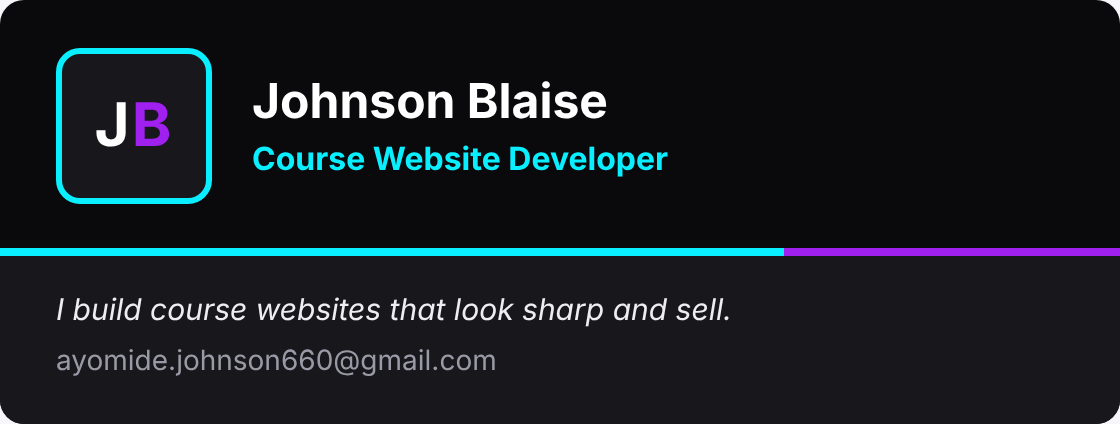
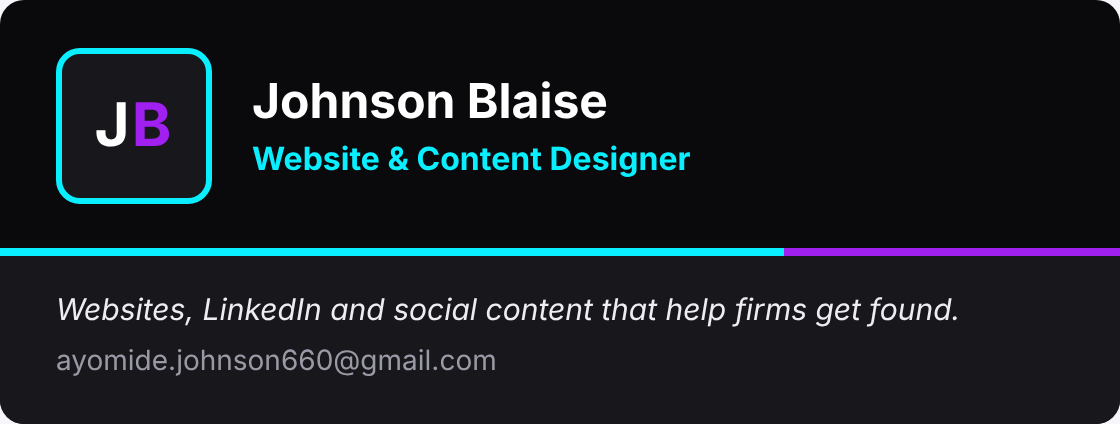
Update signature title and tagline to match the four services pitched
Claude-Session: https://claude.ai/code/session_01BeEGDsEaDhgmmcJh5DHjVC

Changed region(s): [[0.0312, 0.7052, 0.875, 0.7665], [0.2188, 0.3373, 0.625, 0.4292]]

diff --git a/signature/signature.html b/signature/signature.html
@@ -35,7 +35,7 @@
           </td>
           <td valign="middle">
             <div style="font-size:24px;font-weight:700;line-height:30px;color:#FFFFFF;">Johnson Blaise</div>
-            <div style="font-size:16px;font-weight:700;line-height:22px;color:#0AEFFF;padding-top:2px;">Course Website Developer</div>
+            <div style="font-size:16px;font-weight:700;line-height:22px;color:#0AEFFF;padding-top:2px;">Website &amp; Content Designer</div>
           </td>
         </tr>
       </table>
@@ -53,7 +53,7 @@
   </tr>
   <tr>
     <td style="padding:16px 28px 20px 28px;background:#17171C;border-radius:0 0 12px 12px;">
-      <div style="font-size:15px;font-style:italic;line-height:22px;color:#EDEDF2;">I build course websites that look sharp and sell.</div>
+      <div style="font-size:15px;font-style:italic;line-height:22px;color:#EDEDF2;">Websites, LinkedIn and social content that help firms get found.</div>
       <div style="font-size:14px;line-height:22px;padding-top:4px;"><a href="mailto:ayomide.johnson660@gmail.com" style="color:#9A9AA6;text-decoration:none;">ayomide.johnson660@gmail.com</a></div>
     </td>
   </tr>
